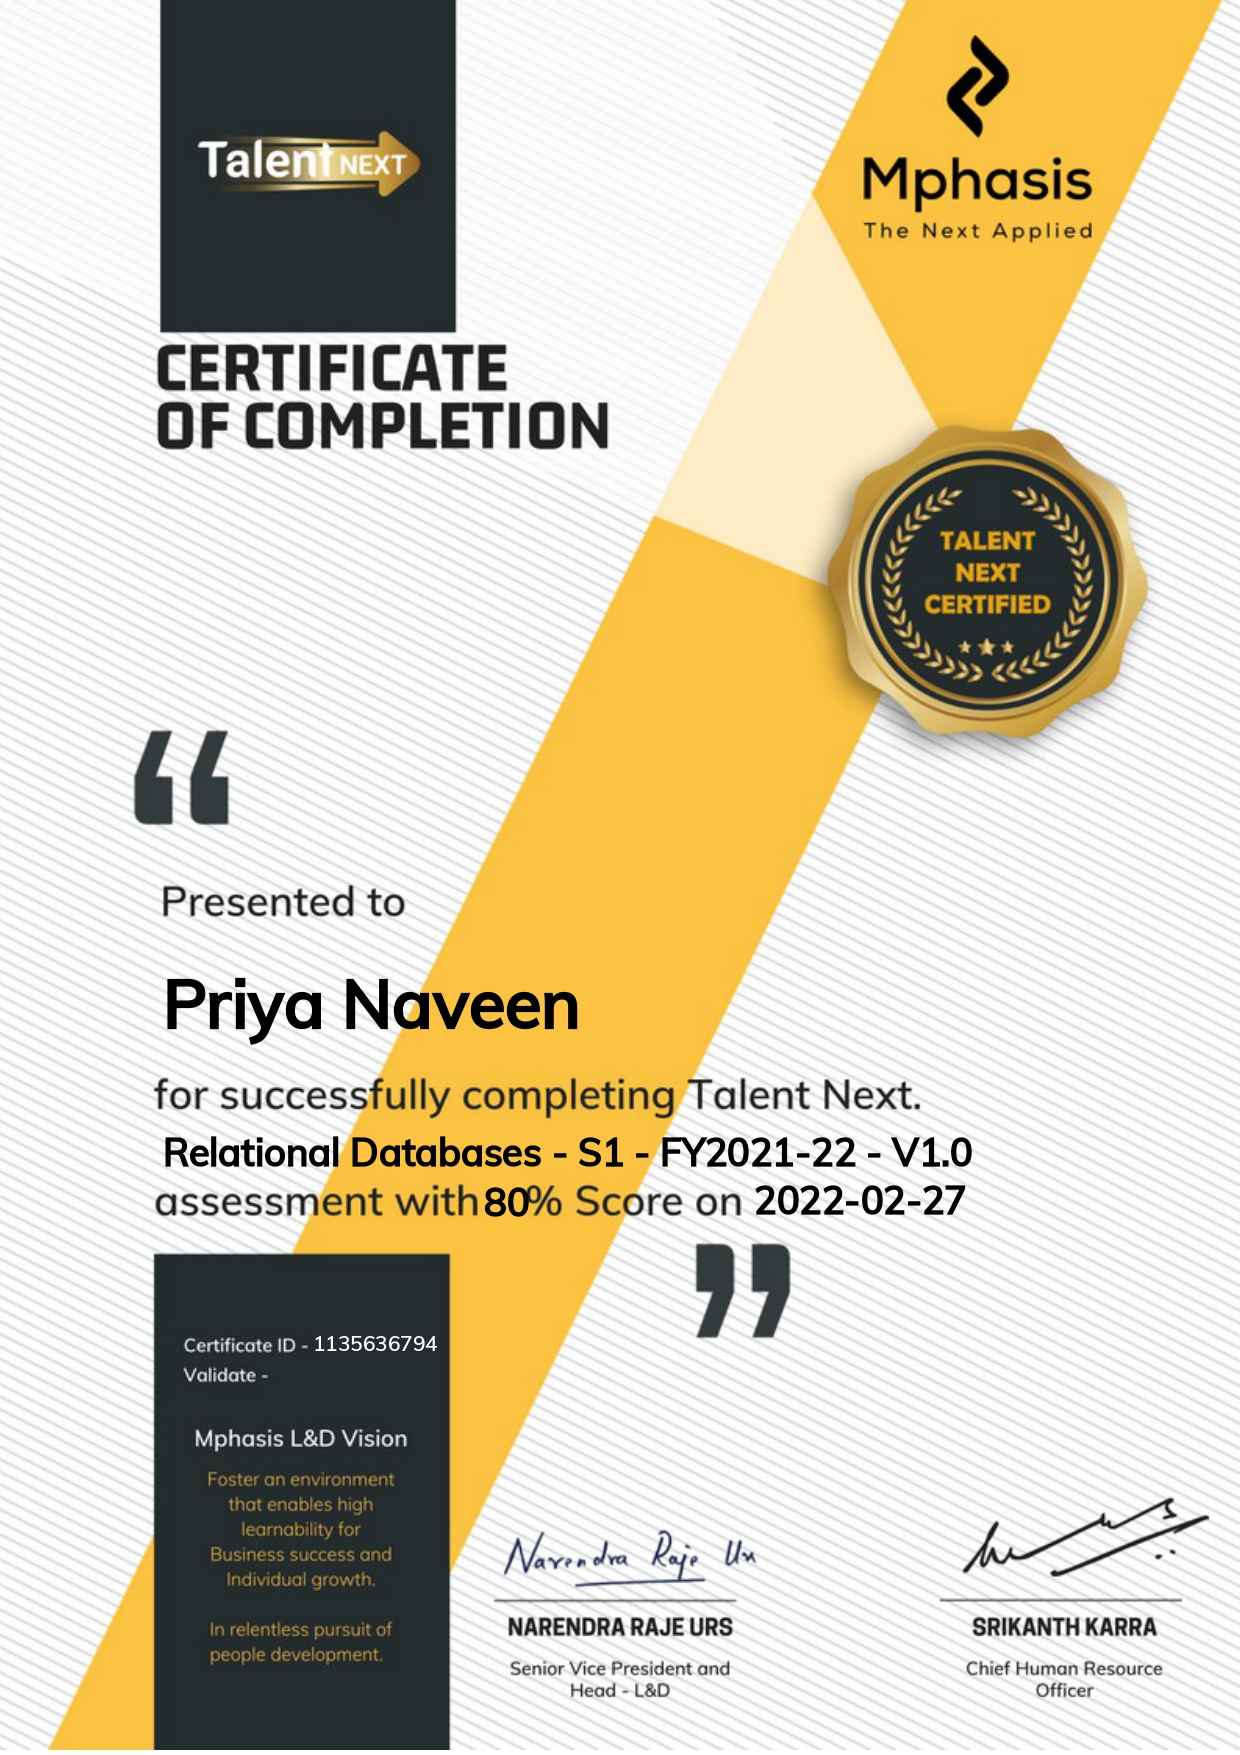
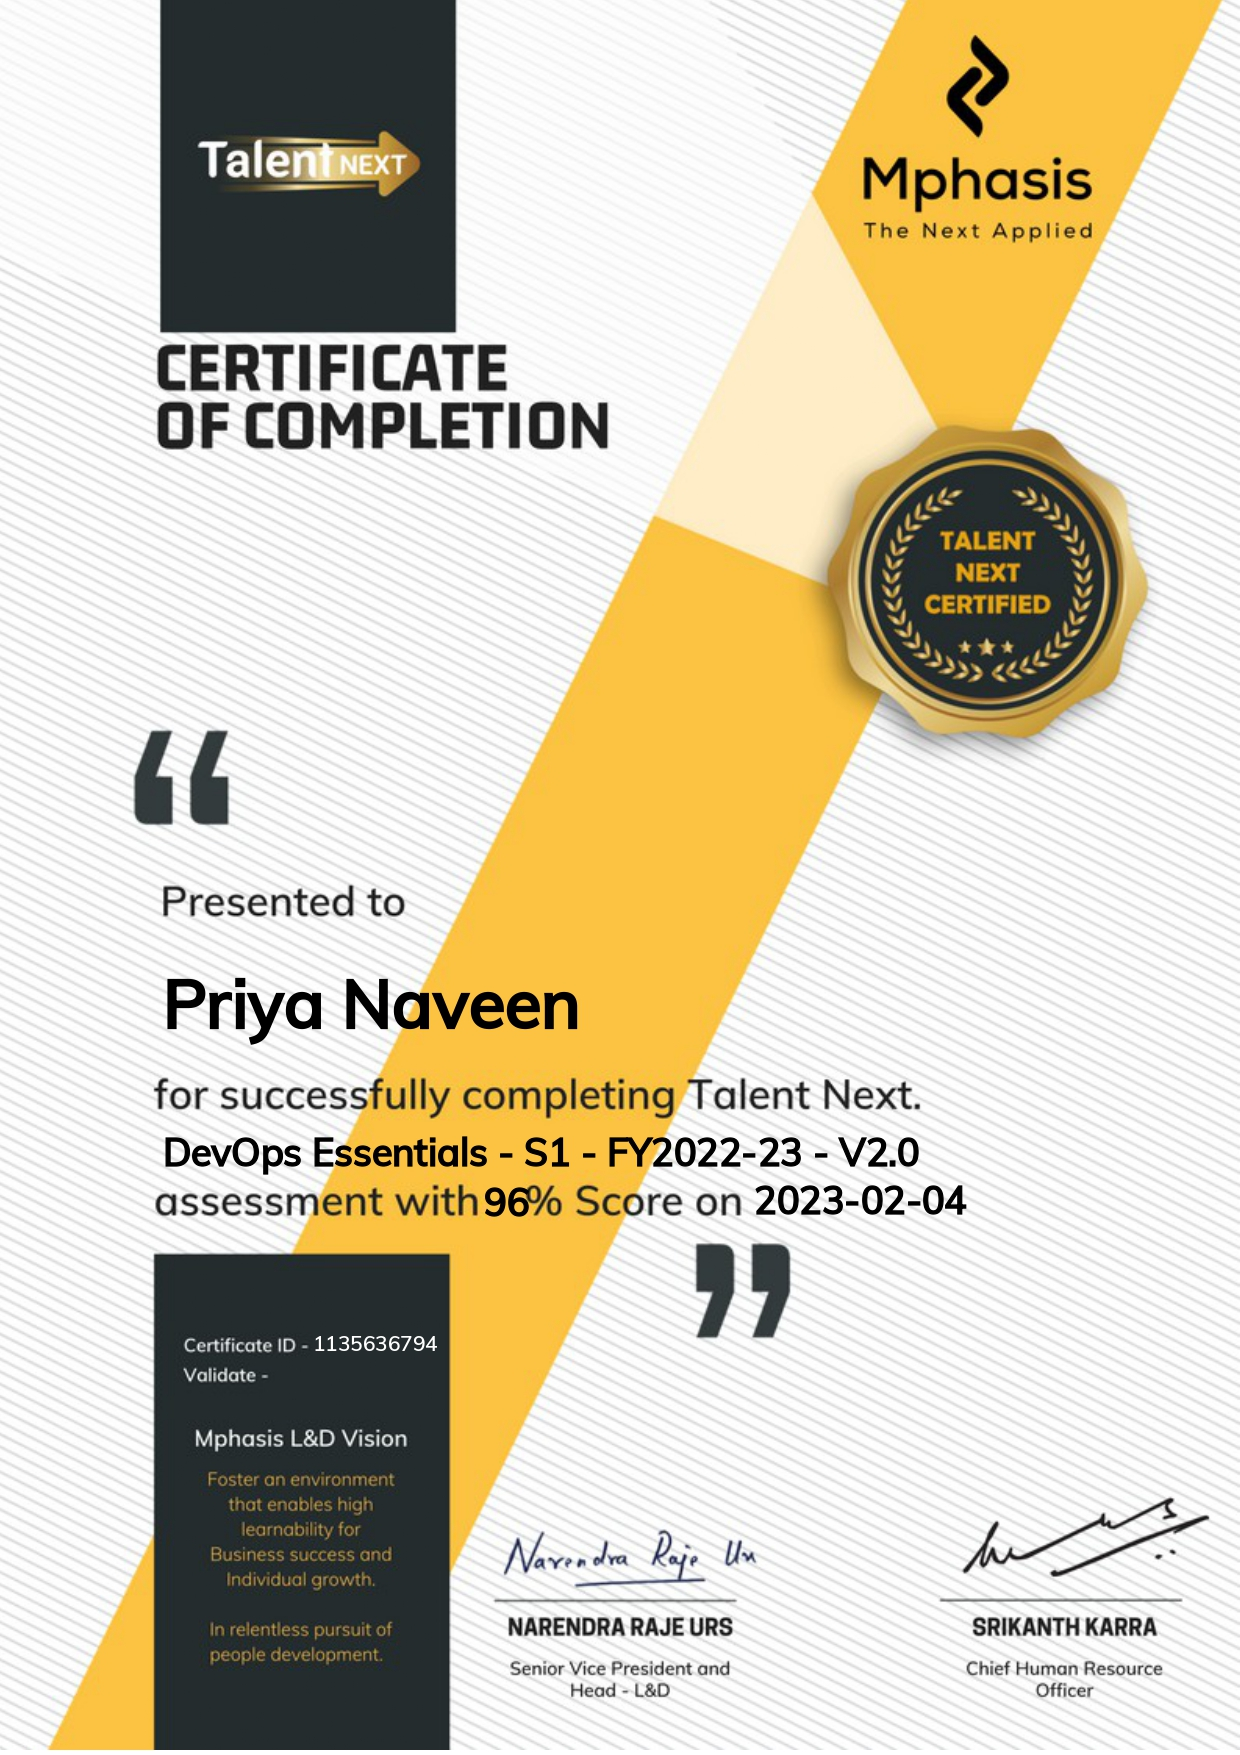
updated tcs

Changed region(s): [[0.1226, 0.6462, 0.7968, 0.7077]]

diff --git a/index.html b/index.html
@@ -684,7 +684,7 @@ technology to formulate optimum solutions.</li>
           <div class="portfolio-wrap">
             <img src="assets/img/portfolio/portfolio-1.jpg" class="img-fluid" alt="">
             <div class="portfolio-info">
-              <h4>Relational Databases</h4>
+              <h4>DevOps Essentials Certificate</h4>
               <p></p>
               <div class="portfolio-links">
                 <a href="assets/img/portfolio/portfolio-1.jpg" data-gallery="portfolioGallery" class="portfolio-lightbox" ><i class="bx bx-search-alt"></i></a>
@@ -736,6 +736,34 @@ technology to formulate optimum solutions.</li>
           </div>
         </div>
 
+        <div class="col-lg-4 col-md-6 portfolio-item filter-card">
+          <div class="portfolio-wrap">
+            <img src="assets/img/portfolio/portfolio-11.jpg" class="img-fluid" alt="">
+            <div class="portfolio-info">
+              <h4>Relational Databases</h4>
+              <p></p>
+              <div class="portfolio-links">
+                <a href="assets/img/portfolio/portfolio-11.jpg" data-gallery="portfolioGallery" class="portfolio-lightbox" ><i class="bx bx-search-alt"></i></a>
+               
+              </div>
+            </div>
+          </div>
+        </div>
+
+        <div class="col-lg-4 col-md-6 portfolio-item filter-card">
+          <div class="portfolio-wrap">
+            <img src="assets/img/portfolio/portfolio-12.jpg" class="img-fluid" alt="">
+            <div class="portfolio-info">
+              <h4>Spring Certification</h4>
+              <p></p>
+              <div class="portfolio-links">
+                <a href="assets/img/portfolio/portfolio-12.jpg" data-gallery="portfolioGallery" class="portfolio-lightbox" ><i class="bx bx-search-alt"></i></a>
+               
+              </div>
+            </div>
+          </div>
+        </div>
+
         <div class="col-lg-4 col-md-6 portfolio-item filter-web">
           <div class="portfolio-wrap">
             <img src="assets/img/portfolio/portfolio-5.jpg" class="img-fluid" alt="">
@@ -771,7 +799,7 @@ technology to formulate optimum solutions.</li>
               <h4>TDD for Angular</h4>
               <p></p>
               <div class="portfolio-links">
-                <a href="assets/img/portfolio/portfolio-7.jpg" data-gallery="portfolioGallery" class="portfolio-lightbox" title="Card 1"><i class="bx bx-search-alt"></i></a>
+                <a href="assets/img/portfolio/portfolio-7.jpg" data-gallery="portfolioGallery" class="portfolio-lightbox" ><i class="bx bx-search-alt"></i></a>
                
               </div>
             </div>
@@ -799,12 +827,279 @@ technology to formulate optimum solutions.</li>
               <h4>Java FullStack</h4>
               <p></p>
               <div class="portfolio-links">
-                <a href="assets/img/portfolio/portfolio-9.jpg" data-gallery="portfolioGallery" class="portfolio-lightbox" title="Web 3"><i class="bx bx-search-alt"></i></a>
+                <a href="assets/img/portfolio/portfolio-9.jpg" data-gallery="portfolioGallery" class="portfolio-lightbox" ><i class="bx bx-search-alt"></i></a>
                
               </div>
             </div>
           </div>
         </div>
+
+        <div class="col-lg-4 col-md-6 portfolio-item filter-web">
+          <div class="portfolio-wrap">
+            <img src="assets/img/portfolio/portfolio-13.jpg" class="img-fluid" alt="">
+            <div class="portfolio-info">
+              <h4>Java FullStack</h4>
+              <p></p>
+              <div class="portfolio-links">
+                <a href="assets/img/portfolio/portfolio-13.jpg" data-gallery="portfolioGallery" class="portfolio-lightbox" ><i class="bx bx-search-alt"></i></a>
+               
+              </div>
+            </div>
+          </div>
+        </div>
+
+        <div class="col-lg-4 col-md-6 portfolio-item filter-web">
+          <div class="portfolio-wrap">
+            <img src="assets/img/portfolio/portfolio-14.jpg" class="img-fluid" alt="">
+            <div class="portfolio-info">
+              <h4>Java FullStack</h4>
+              <p></p>
+              <div class="portfolio-links">
+                <a href="assets/img/portfolio/portfolio-14.jpg" data-gallery="portfolioGallery" class="portfolio-lightbox" ><i class="bx bx-search-alt"></i></a>
+               
+              </div>
+            </div>
+          </div>
+        </div>
+
+        <div class="col-lg-4 col-md-6 portfolio-item filter-web">
+          <div class="portfolio-wrap">
+            <img src="assets/img/portfolio/portfolio-15.jpg" class="img-fluid" alt="">
+            <div class="portfolio-info">
+              <h4>Java FullStack</h4>
+              <p></p>
+              <div class="portfolio-links">
+                <a href="assets/img/portfolio/portfolio-15.jpg" data-gallery="portfolioGallery" class="portfolio-lightbox" ><i class="bx bx-search-alt"></i></a>
+               
+              </div>
+            </div>
+          </div>
+        </div>
+
+        <div class="col-lg-4 col-md-6 portfolio-item filter-web">
+          <div class="portfolio-wrap">
+            <img src="assets/img/portfolio/portfolio-16.jpg" class="img-fluid" alt="">
+            <div class="portfolio-info">
+              <h4>Java FullStack</h4>
+              <p></p>
+              <div class="portfolio-links">
+                <a href="assets/img/portfolio/portfolio-16.jpg" data-gallery="portfolioGallery" class="portfolio-lightbox" ><i class="bx bx-search-alt"></i></a>
+               
+              </div>
+            </div>
+          </div>
+        </div>
+
+        <div class="col-lg-4 col-md-6 portfolio-item filter-web">
+          <div class="portfolio-wrap">
+            <img src="assets/img/portfolio/portfolio-17.jpg" class="img-fluid" alt="">
+            <div class="portfolio-info">
+              <h4>Java FullStack</h4>
+              <p></p>
+              <div class="portfolio-links">
+                <a href="assets/img/portfolio/portfolio-17.jpg" data-gallery="portfolioGallery" class="portfolio-lightbox" ><i class="bx bx-search-alt"></i></a>
+               
+              </div>
+            </div>
+          </div>
+        </div>
+
+        <div class="col-lg-4 col-md-6 portfolio-item filter-web">
+          <div class="portfolio-wrap">
+            <img src="assets/img/portfolio/portfolio-18.jpg" class="img-fluid" alt="">
+            <div class="portfolio-info">
+              <h4>Java FullStack</h4>
+              <p></p>
+              <div class="portfolio-links">
+                <a href="assets/img/portfolio/portfolio-18.jpg" data-gallery="portfolioGallery" class="portfolio-lightbox" ><i class="bx bx-search-alt"></i></a>
+               
+              </div>
+            </div>
+          </div>
+        </div>
+
+        <div class="col-lg-4 col-md-6 portfolio-item filter-web">
+          <div class="portfolio-wrap">
+            <img src="assets/img/portfolio/portfolio-19.jpg" class="img-fluid" alt="">
+            <div class="portfolio-info">
+              <h4>Java FullStack</h4>
+              <p></p>
+              <div class="portfolio-links">
+                <a href="assets/img/portfolio/portfolio-19.jpg" data-gallery="portfolioGallery" class="portfolio-lightbox" ><i class="bx bx-search-alt"></i></a>
+               
+              </div>
+            </div>
+          </div>
+        </div>
+
+        <div class="col-lg-4 col-md-6 portfolio-item filter-web">
+          <div class="portfolio-wrap">
+            <img src="assets/img/portfolio/portfolio-20.jpg" class="img-fluid" alt="">
+            <div class="portfolio-info">
+              <h4>Java FullStack</h4>
+              <p></p>
+              <div class="portfolio-links">
+                <a href="assets/img/portfolio/portfolio-20.jpg" data-gallery="portfolioGallery" class="portfolio-lightbox" ><i class="bx bx-search-alt"></i></a>
+               
+              </div>
+            </div>
+          </div>
+        </div>
+
+        <div class="col-lg-4 col-md-6 portfolio-item filter-web">
+          <div class="portfolio-wrap">
+            <img src="assets/img/portfolio/portfolio-21.jpg" class="img-fluid" alt="">
+            <div class="portfolio-info">
+              <h4>Java FullStack</h4>
+              <p></p>
+              <div class="portfolio-links">
+                <a href="assets/img/portfolio/portfolio-21.jpg" data-gallery="portfolioGallery" class="portfolio-lightbox" ><i class="bx bx-search-alt"></i></a>
+               
+              </div>
+            </div>
+          </div>
+        </div>
+
+        <div class="col-lg-4 col-md-6 portfolio-item filter-web">
+          <div class="portfolio-wrap">
+            <img src="assets/img/portfolio/portfolio-22.jpg" class="img-fluid" alt="">
+            <div class="portfolio-info">
+              <h4>Java FullStack</h4>
+              <p></p>
+              <div class="portfolio-links">
+                <a href="assets/img/portfolio/portfolio-22.jpg" data-gallery="portfolioGallery" class="portfolio-lightbox" ><i class="bx bx-search-alt"></i></a>
+               
+              </div>
+            </div>
+          </div>
+        </div>
+
+        <div class="col-lg-4 col-md-6 portfolio-item filter-web">
+          <div class="portfolio-wrap">
+            <img src="assets/img/portfolio/portfolio-23.jpg" class="img-fluid" alt="">
+            <div class="portfolio-info">
+              <h4>Java FullStack</h4>
+              <p></p>
+              <div class="portfolio-links">
+                <a href="assets/img/portfolio/portfolio-23.jpg" data-gallery="portfolioGallery" class="portfolio-lightbox" ><i class="bx bx-search-alt"></i></a>
+               
+              </div>
+            </div>
+          </div>
+        </div>
+
+        <div class="col-lg-4 col-md-6 portfolio-item filter-web">
+          <div class="portfolio-wrap">
+            <img src="assets/img/portfolio/portfolio-24.jpg" class="img-fluid" alt="">
+            <div class="portfolio-info">
+              <h4>Java FullStack</h4>
+              <p></p>
+              <div class="portfolio-links">
+                <a href="assets/img/portfolio/portfolio-24.jpg" data-gallery="portfolioGallery" class="portfolio-lightbox" ><i class="bx bx-search-alt"></i></a>
+               
+              </div>
+            </div>
+          </div>
+        </div>
+
+        <div class="col-lg-4 col-md-6 portfolio-item filter-web">
+          <div class="portfolio-wrap">
+            <img src="assets/img/portfolio/portfolio-25.jpg" class="img-fluid" alt="">
+            <div class="portfolio-info">
+              <h4>Java FullStack</h4>
+              <p></p>
+              <div class="portfolio-links">
+                <a href="assets/img/portfolio/portfolio-25.jpg" data-gallery="portfolioGallery" class="portfolio-lightbox" ><i class="bx bx-search-alt"></i></a>
+               
+              </div>
+            </div>
+          </div>
+        </div>
+
+        <div class="col-lg-4 col-md-6 portfolio-item filter-web">
+          <div class="portfolio-wrap">
+            <img src="assets/img/portfolio/portfolio-26.jpg" class="img-fluid" alt="">
+            <div class="portfolio-info">
+              <h4>Java FullStack</h4>
+              <p></p>
+              <div class="portfolio-links">
+                <a href="assets/img/portfolio/portfolio-26.jpg" data-gallery="portfolioGallery" class="portfolio-lightbox" ><i class="bx bx-search-alt"></i></a>
+               
+              </div>
+            </div>
+          </div>
+        </div>
+
+        <div class="col-lg-4 col-md-6 portfolio-item filter-web">
+          <div class="portfolio-wrap">
+            <img src="assets/img/portfolio/portfolio-27.jpg" class="img-fluid" alt="">
+            <div class="portfolio-info">
+              <h4>Java FullStack</h4>
+              <p></p>
+              <div class="portfolio-links">
+                <a href="assets/img/portfolio/portfolio-27.jpg" data-gallery="portfolioGallery" class="portfolio-lightbox" ><i class="bx bx-search-alt"></i></a>
+               
+              </div>
+            </div>
+          </div>
+        </div>
+
+        <div class="col-lg-4 col-md-6 portfolio-item filter-web">
+          <div class="portfolio-wrap">
+            <img src="assets/img/portfolio/portfolio-28.jpg" class="img-fluid" alt="">
+            <div class="portfolio-info">
+              <h4>Java FullStack</h4>
+              <p></p>
+              <div class="portfolio-links">
+                <a href="assets/img/portfolio/portfolio-28.jpg" data-gallery="portfolioGallery" class="portfolio-lightbox" ><i class="bx bx-search-alt"></i></a>
+               
+              </div>
+            </div>
+          </div>
+        </div>
+
+        <div class="col-lg-4 col-md-6 portfolio-item filter-web">
+          <div class="portfolio-wrap">
+            <img src="assets/img/portfolio/portfolio-28.jpg" class="img-fluid" alt="">
+            <div class="portfolio-info">
+              <h4>Java FullStack</h4>
+              <p></p>
+              <div class="portfolio-links">
+                <a href="assets/img/portfolio/portfolio-29.jpg" data-gallery="portfolioGallery" class="portfolio-lightbox" ><i class="bx bx-search-alt"></i></a>
+               
+              </div>
+            </div>
+          </div>
+        </div>
+
+        <div class="col-lg-4 col-md-6 portfolio-item filter-web">
+          <div class="portfolio-wrap">
+            <img src="assets/img/portfolio/portfolio-30.jpg" class="img-fluid" alt="">
+            <div class="portfolio-info">
+              <h4>Java FullStack</h4>
+              <p></p>
+              <div class="portfolio-links">
+                <a href="assets/img/portfolio/portfolio-30.jpg" data-gallery="portfolioGallery" class="portfolio-lightbox" ><i class="bx bx-search-alt"></i></a>
+               
+              </div>
+            </div>
+          </div>
+        </div>
+
+        <div class="col-lg-4 col-md-6 portfolio-item filter-web">
+          <div class="portfolio-wrap">
+            <img src="assets/img/portfolio/portfolio-31.jpg" class="img-fluid" alt="">
+            <div class="portfolio-info">
+              <h4>Java FullStack</h4>
+              <p></p>
+              <div class="portfolio-links">
+                <a href="assets/img/portfolio/portfolio-31.jpg" data-gallery="portfolioGallery" class="portfolio-lightbox" ><i class="bx bx-search-alt"></i></a>
+               
+              </div>
+            </div>
+          </div>
+        </div>
+
 
       </div>
 
